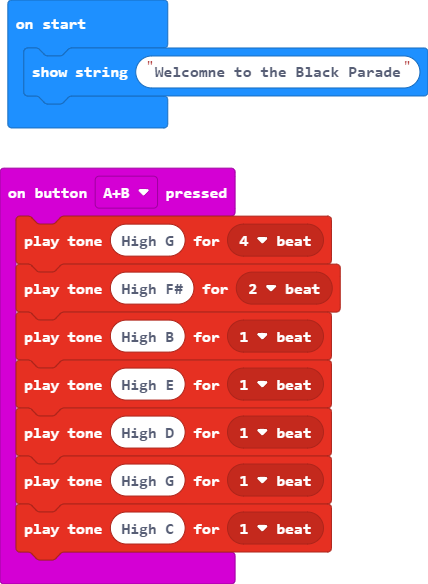
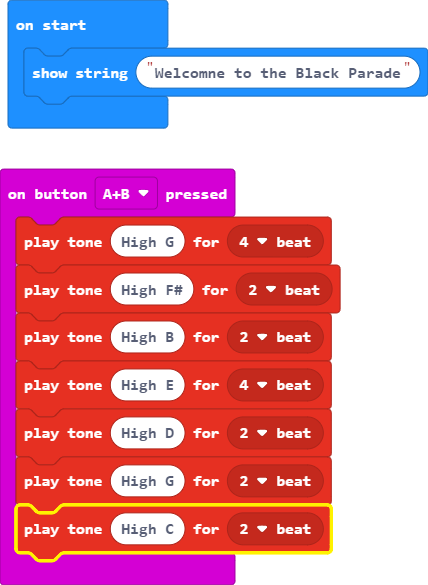
Update main.blocks, main.ts

diff --git a/main.ts b/main.ts
@@ -1,10 +1,10 @@
 input.onButtonPressed(Button.AB, function () {
     music.playTone(784, music.beat(BeatFraction.Breve))
     music.playTone(740, music.beat(BeatFraction.Double))
-    music.playTone(988, music.beat(BeatFraction.Whole))
-    music.playTone(659, music.beat(BeatFraction.Whole))
-    music.playTone(587, music.beat(BeatFraction.Whole))
-    music.playTone(784, music.beat(BeatFraction.Whole))
-    music.playTone(523, music.beat(BeatFraction.Whole))
+    music.playTone(988, music.beat(BeatFraction.Double))
+    music.playTone(659, music.beat(BeatFraction.Breve))
+    music.playTone(587, music.beat(BeatFraction.Double))
+    music.playTone(784, music.beat(BeatFraction.Double))
+    music.playTone(523, music.beat(BeatFraction.Double))
 })
 basic.showString("Welcomne to the Black Parade")
